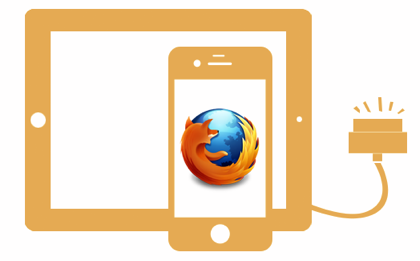
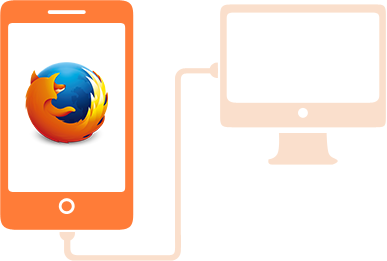
modify connection UI

diff --git a/content/style/main.css b/content/style/main.css
@@ -9,6 +9,7 @@ html {
 
 body {
   font-size: 1.4rem;
+  color: #8B8B8B;
   padding-top: 1rem;
   overflow-y: scroll;
 }
@@ -122,22 +123,36 @@ input[type="url"], textarea {
 }
 
 #welcome-msg {
-  background-color: #FFF8F2;
   padding: 1rem;
 }
 
 #welcome-msg h3 {
   font-size: 2.8rem;
+  color: #7D7D7D;
+  padding: 0rem 1rem;
+}
+
+#welcome-msg p {
+  padding: 1rem;
 }
 
 #user-guide {
-  height: 35rem;
-  background: url("images/landing.png") no-repeat .5rem 8rem transparent;
+  height: 40rem;
+  background: url("images/landing.png") no-repeat  center  10rem transparent;
 }
 
 #user-guide p {
   padding: 1rem 3rem;
+  text-align: center;
 }
+
+#user-guide div {
+  padding: 1rem 3rem;
+  text-align: center;
+  font-size: 2rem;
+}
+
+
 
 /****** sidebar *******/
 .sidebar {
@@ -274,7 +289,7 @@ input[type="url"], textarea {
 }
 
 .content .view {
-  min-height: 50rem;
+  min-height: 55rem;
 }
 
 .content .view .view-body {
@@ -282,8 +297,9 @@ input[type="url"], textarea {
 }
 
 .content .view h1.title {
-  padding: 1rem;
-  background-color: #FFF8F2;
+  padding: 1rem 2rem;
+  font-size: 2.8rem;
+  color: #7D7D7D;
 }
 
 /******** summary view ******/
@@ -291,36 +307,65 @@ input[type="url"], textarea {
   float: left;
   width: 50%;
   height: 47rem;
-  background: url("images/device.png") no-repeat center center transparent;
 }
 
 #device-image .device-name {
-  line-height: 2rem;
-  font-size: 1.2rem;
+  line-height: 3rem;
+  font-size: 1.5rem;
   text-align: center;
-  margin: 3.5rem auto;
-  width: 14rem;
+  margin: 0.5rem auto;
+  width: 18rem;
   background-color: #AAA;
   border-radius: .5rem;
   color: #FFF;
   font-weight: bold;
 }
 
+#device-image .device-picture {
+  width: 100%;
+  height: 70%;
+  background: url("images/device.png") no-repeat center center transparent;
+}
+
+#device-image .device-connect {
+  margin-top: 0rem;
+  width: 100%;
+  height: 30%;
+  background-position: top;
+  background: url("images/usb.png") no-repeat center top transparent;
+}
+
+
 #summary-infos {
   float: left;
-  width: 23rem;
+  width: 28rem;
   margin: 7rem 0 0;
 }
 
-#summary-infos > div {
+#summary-infos > div:first-child{
   margin-top: 1rem;
+  padding: 1rem 2rem;
+  height: auto;
 }
 
-#summary-infos .storage-detail > div:first-child {
+#summary-infos > div:last-child{
+  margin-top: 1rem;
+  padding: 1rem 2rem;
+  height: 20rem;
+}
+
+
+#summary-infos .storage-totle{
+  height: 2.5rem;
+}
+
+#summary-infos .storage-totle > div:first-child {
   float: left;
+  font-size: 1.8rem;
+  color: #090909;
 }
 
-#summary-infos .storage-detail > div:last-child {
+#summary-infos .storage-totle > div:last-child {
   float: right;
 }
 
@@ -336,7 +381,37 @@ input[type="url"], textarea {
   height: 100%;
   float: left;
   border-radius: .5rem;
-  background-color: #FEA000;
+  background-color: #00C9F7;
+  transition-property: width;
+  transition-duration: 1s;
+}
+
+#summary-infos .storage-detail {
+  font-size: 1.6rem;
+  color: #090909;
+  height: 4rem;
+}
+
+#summary-infos .storage-detail > div:first-child {
+  font-size: 1.6rem;
+  color: #868686;
+  float: left;
+  margin-top: 1rem;
+}
+
+#summary-infos .storage-detail  > div:last-child  {
+  width: 15rem;
+  float: left;
+  height: 0.5rem;
+  margin-top: 2rem;
+  margin-left: .5rem;
+}
+
+#summary-infos .storage-detailgraph .storage-used {
+  width: 0;
+  height: 0.5rem;
+  border-radius: .5rem;
+  background-color: #7FC80E;
   transition-property: width;
   transition-duration: 1s;
 }

diff --git a/content/index.html b/content/index.html
@@ -106,18 +106,20 @@
             </div>
 
             <section id="user-guide">
-              <p data-l10n-id="nodevice-found-msg">您的手机尚未链接到电脑，请通过USB数据线或者wiki链接</p>
-              <p><a href="http://mozilla.com.cn/" target="_blank" data-l10n-id="usb-problem">已链接USB数据线，无法识别手机？</a></p>
+              <div><a data-l10n-id="nodevice-found-msg">您的手机尚未连接到电脑，请通过USB数据线连接</a></div>
+              <p><a href="http://mozilla.com.cn/" target="_blank" data-l10n-id="usb-problem">已连接USB数据线，无法识别手机？</a></p>
             </section>
           </div>
           <section id="summary-view" class="view" hidden>
             <h1 data-l10n-id="summary" class="title">基本信息</h1>
             <div id="device-image">
               <div class="device-name">ZTE Unagi</div>
+              <div class="device-picture"></div>
+              <div class="device-connect"></div>
             </div>
             <div id="summary-infos">
               <div id="device-storage-summary">
-                <div class="storage-detail">
+                <div class="storage-totle">
                   <div class="storage-name" data-l10n-id="handset">手机</div>
                   <div class="storage-number"></div>
                 </div>
@@ -126,19 +128,37 @@
                 </div>
               </div>
               <div id="sdcard-storage-summary">
-                <div class="storage-detail">
+                <div class="storage-totle">
                   <div class="storage-name" data-l10n-id="sdcard">SD卡</div>
                   <div class="storage-number"></div>
                 </div>
                 <div class="storage-graph">
                   <div class="used"></div>
                 </div>
-              </div>
-              <div id="summary-ops">
-               <div id="backup-button" class="button active-button" data-l10n-id="backup"></div>
-                <div id="restore-button" class="button" data-l10n-id="restore"></div>
-                <div class="button clear-fix" data-l10n-id="sdcard-mgmt"></div>
-                <div class="button clear-fix" data-l10n-id="bind-device"></div>
+                <div class="storage-detail">
+                  <div class="storage-name" data-l10n-id="sdcard-music">音乐</div>
+                  <div class="storage-detailgraph">
+                    <div class="storage-used"></div>
+                  </div>
+                </div>
+                <div class="storage-detail">
+                  <div class="storage-name" data-l10n-id="sdcard-picture">图片</div>
+                  <div class="storage-detailgraph">
+                    <div class="storage-used"></div>
+                  </div>
+                </div>
+                <div class="storage-detail">
+                  <div class="storage-name" data-l10n-id="sdcard-video">视频</div>
+                  <div class="storage-detailgraph">
+                    <div class="storage-used"></div>
+                  </div>
+                </div>
+                <div class="storage-detail">
+                  <div class="storage-name" data-l10n-id="sdcard-other">其它</div>
+                  <div class="storage-detailgraph">
+                    <div class="storage-used"></div>
+                  </div>
+                </div>
               </div>
             </div>
           </section>

diff --git a/content/index_debug.html b/content/index_debug.html
@@ -106,18 +106,20 @@
             </div>
 
             <section id="user-guide">
-              <p data-l10n-id="nodevice-found-msg">您的手机尚未链接到电脑，请通过USB数据线或者wiki链接</p>
-              <p><a href="http://mozilla.com.cn/" target="_blank" data-l10n-id="usb-problem">已链接USB数据线，无法识别手机？</a></p>
+              <div><a data-l10n-id="nodevice-found-msg">您的手机尚未连接到电脑，请通过USB数据线连接</a></div>
+              <p><a href="http://mozilla.com.cn/" target="_blank" data-l10n-id="usb-problem">已连接USB数据线，无法识别手机？</a></p>
             </section>
           </div>
           <section id="summary-view" class="view" hidden>
             <h1 data-l10n-id="summary" class="title">基本信息</h1>
             <div id="device-image">
               <div class="device-name">ZTE Unagi</div>
+              <div class="device-picture"></div>
+              <div class="device-connect"></div>
             </div>
             <div id="summary-infos">
               <div id="device-storage-summary">
-                <div class="storage-detail">
+                <div class="storage-totle">
                   <div class="storage-name" data-l10n-id="handset">手机</div>
                   <div class="storage-number"></div>
                 </div>
@@ -126,19 +128,37 @@
                 </div>
               </div>
               <div id="sdcard-storage-summary">
-                <div class="storage-detail">
+                <div class="storage-totle">
                   <div class="storage-name" data-l10n-id="sdcard">SD卡</div>
                   <div class="storage-number"></div>
                 </div>
                 <div class="storage-graph">
                   <div class="used"></div>
                 </div>
-              </div>
-              <div id="summary-ops">
-               <div id="backup-button" class="button active-button" data-l10n-id="backup"></div>
-                <div id="restore-button" class="button" data-l10n-id="restore"></div>
-                <div class="button clear-fix" data-l10n-id="sdcard-mgmt"></div>
-                <div class="button clear-fix" data-l10n-id="bind-device"></div>
+                <div class="storage-detail">
+                  <div class="storage-name" data-l10n-id="sdcard-music">音乐</div>
+                  <div class="storage-detailgraph">
+                    <div class="storage-used"></div>
+                  </div>
+                </div>
+                <div class="storage-detail">
+                  <div class="storage-name" data-l10n-id="sdcard-picture">图片</div>
+                  <div class="storage-detailgraph">
+                    <div class="storage-used"></div>
+                  </div>
+                </div>
+                <div class="storage-detail">
+                  <div class="storage-name" data-l10n-id="sdcard-video">视频</div>
+                  <div class="storage-detailgraph">
+                    <div class="storage-used"></div>
+                  </div>
+                </div>
+                <div class="storage-detail">
+                  <div class="storage-name" data-l10n-id="sdcard-other">其它</div>
+                  <div class="storage-detailgraph">
+                    <div class="storage-used"></div>
+                  </div>
+                </div>
               </div>
             </div>
           </section>

diff --git a/content/js/main.js b/content/js/main.js
@@ -38,6 +38,24 @@ var FFOSAssistant = (function() {
     $expr('.storage-number', elem)[0].textContent =
       formatStorage(info.usedInBytes) + '/' + formatStorage(total) + ' ' + usedInP;
     $expr('.storage-graph .used', elem)[0].style.width = usedInP;
+    if(elemId =='sdcard-storage-summary' ){
+      var subInP = Math.floor(info.picture / info.usedInBytes * 100);
+      if(subInP == 0)
+	subInP = 1;
+      $expr('.storage-used', elem)[0].style.width = subInP + '%';
+      subInP = Math.floor(info.music / info.usedInBytes * 100);
+      if(subInP == 0)
+	subInP = 1;
+      $expr('.storage-used', elem)[1].style.width = subInP + '%';
+      subInP = Math.floor(info.video / info.usedInBytes * 100);
+      if(subInP == 0)
+	subInP = 1;
+      $expr('.storage-used', elem)[2].style.width = subInP + '%';
+      subInP = Math.floor((info.usedInBytes - info.music - info.picture - info.video) / info.usedInBytes * 100);
+      if(subInP == 0)
+	subInP = 1;
+      $expr('.storage-used', elem)[3].style.width =  subInP + '%';
+    }
   }
 
   function getAndShowSummaryInfo() {
@@ -45,13 +63,19 @@ var FFOSAssistant = (function() {
       var deviceInfo = {};
       var sdcardInfo = {
         usedInBytes: 0,
-        freeInBytes: 0
+        freeInBytes: 0,
+	picture: 0,
+	music: 0,
+	video:0
       };
       var dataJSON = JSON.parse(message.data);
       deviceInfo.usedInBytes = dataJSON[4].usedSpace;
       deviceInfo.freeInBytes = dataJSON[4].freeSpace;
       sdcardInfo.usedInBytes = dataJSON[3].usedSpace;
       sdcardInfo.freeInBytes = dataJSON[3].freeSpace;
+      sdcardInfo.picture = dataJSON[0].usedSpace;
+      sdcardInfo.music = dataJSON[1].usedSpace;
+      sdcardInfo.video = dataJSON[2].usedSpace;
 
 
       fillStorageSummaryInfo('device-storage-summary', deviceInfo);
